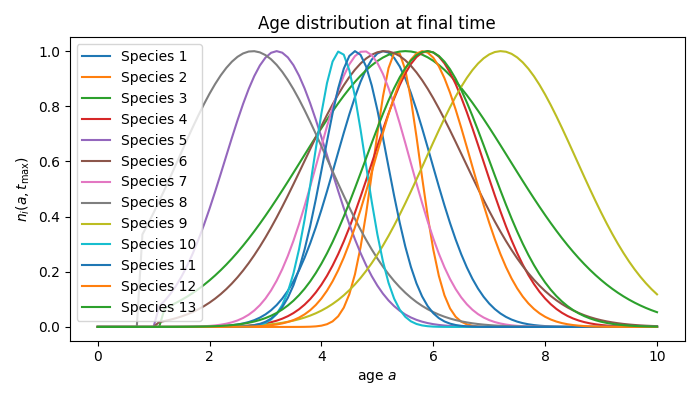
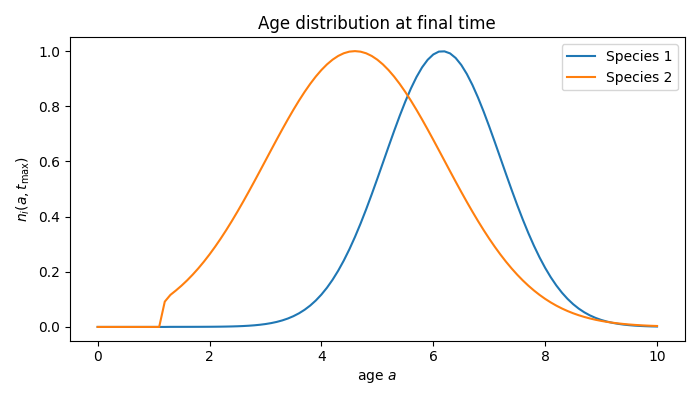
updated plotting

diff --git a/refactor/multispec_competition_dynamics_refactored.py b/refactor/multispec_competition_dynamics_refactored.py
@@ -7,7 +7,7 @@ import matplotlib.pyplot as plt
 import numba
 from numba import njit, prange
 
-from my_ddeint.ddeint import ddeint
+from my_ddeint.ddeint import ddeint #if you want to customize (e.g. use a stiff solver)
 
 #from ddeint import ddeint
 # ensure: pip install ddeint
@@ -86,6 +86,7 @@ t = np.arange(0, tmax, .001)
 start_solve  = time.perf_counter()
 
 multi_sol = ddeint(rhs_multi, history_multi, t)
+
 end_solve = time.perf_counter()
 print(f"[Timing] DDE solve time: {end_solve - start_solve:.3f} s")
 
@@ -106,8 +107,6 @@ N_t = np.trapezoid(rho[np.newaxis, np.newaxis, :] * sol, x=a, axis=2)
 
 
 
-print(f"Total script time: {end_total - start_total:.3f} seconds")
-
 # %%Plotting
 # — Plot total abundances N_i(t) for each species —
 
@@ -119,7 +118,7 @@ plt.ylabel("Total abundance $N_i(t)$")
 plt.legend(loc="best")
 plt.title("Total abundance vs. time")
 plt.tight_layout()
-plt.show()
+plt.savefig("debug_total_abundance.png")
 
 
 # — Plot final age‐distribution n_i(a, t_max) for each species —
@@ -133,4 +132,4 @@ plt.ylabel(r"$n_i(a, t_{\max})$")
 plt.legend(loc="best")
 plt.title("Age distribution at final time")
 plt.tight_layout()
-plt.show()
+plt.savefig("debug_age_dist.png")

diff --git a/refactor/multispec_config_refactored.py b/refactor/multispec_config_refactored.py
@@ -50,7 +50,7 @@ def load_species_params(csv_path):
 # ─── Grid & parameters ────────────────────────────────────────────────────────
 #Read in from file
 species_names, birth_list, death_list, tau_list = load_species_params(file)
-k = len(species_names)
+k = 2#len(species_names)
 # Convert lists to NumPy arrays 
 birth_rate = birth_list
 death_rate = death_list
@@ -59,9 +59,9 @@ alpha      = 0.001 * np.ones(k)
 
 
 #Manual inputs
-Na = 100              # number of age grid cells
-amax = 10.0            # maximum age
-tmax = 0.5            # maximum integration time
+Na = 1000              # number of age grid cells
+amax = 20.0            # maximum age
+tmax = 10            # maximum integration time
 gamma = 0.5            # disturbance rate
   
 

diff --git a/refactor/my_ddeint/ddeint.py b/refactor/my_ddeint/ddeint.py
@@ -63,13 +63,13 @@ class dde(scipy.integrate.ode):
 
         # ── INSERT STIFF (BDF) SETTINGS ─────────────────────────────────
         # Force VODE to use its BDF (stiff) algorithm, with tighter tolerances:
-        self.set_integrator(
-            'vode',
-            method='bdf',
-            rtol=1e-6,
-            atol=1e-8,
-            nsteps=8000
-        )
+        #self.set_integrator(
+        #    'vode',
+        #    method='bdf',
+        #    rtol=1e-6,
+        #    atol=1e-8,
+        #    nsteps=8000
+        #)
         # ────────────────────────────────────────────────────────────────────
 
         self.set_f_params(None)
